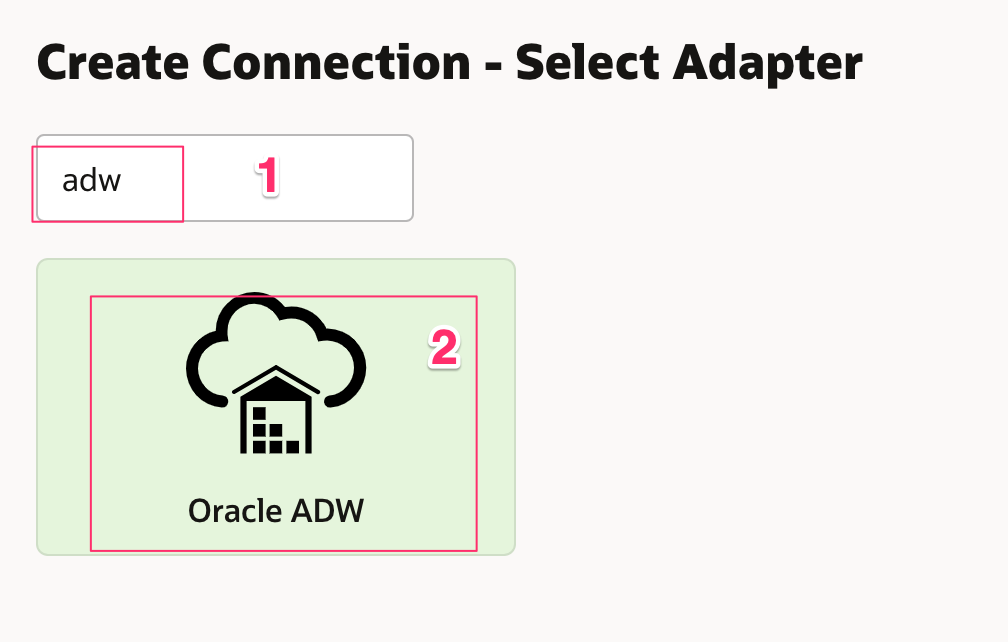
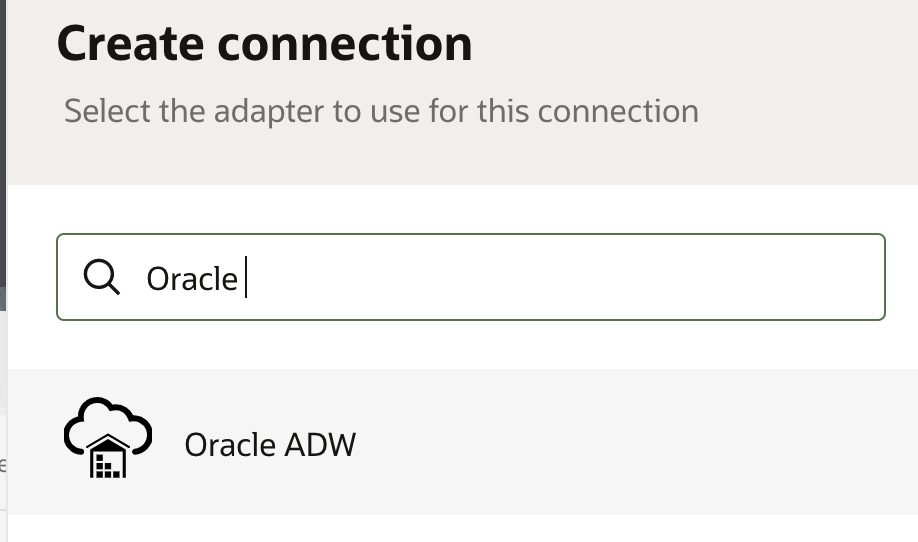
experiential lab
experiential lab

Changed region(s): [[0.0, 0.0, 0.976, 0.8856], [0.9455, 0.5609, 0.976, 0.5904]]

diff --git a/oic-gen3/experiential/erpcloud-business-event/create-connections/create-connections.md b/oic-gen3/experiential/erpcloud-business-event/create-connections/create-connections.md
@@ -8,7 +8,7 @@ Estimated Time: 10 minutes
 
 ### Objectives
 In this lab, you will:
-- Create an Oracle ERP Cloud Adapter Connection 
+- Create an Oracle ERP Cloud Adapter Connection
 - Create an Oracle Autonomous Data Warehouse connection
 
 ### Prerequisites
@@ -16,14 +16,14 @@ This lab assumes you have:
 - Completed the Lab Setup
 
 
-## Task 1: Create an Oracle ERP Cloud Adapter connection 
+## Task 1: Create an Oracle ERP Cloud Adapter connection
 Create a connection with the Oracle ERP Cloud Adapter.
 
 1. Show the left Navigation menu, and click **Integrations** > **Connections**.
 
 2. Click **Create**.
 
-3. In the *Create Connection - Select Adapter* dialog, select the **Oracle ERP Cloud** adapter to use for this connection. To find the adapter, enter `erp` in the search field. Click on the highlighted adapter and hit **Select**.
+3. In the *Create Connection* dialog, select the **Oracle ERP Cloud** adapter to use for this connection. To find the adapter, enter `erp` in the search field. Click on the highlighted adapter.
     ![Create ERP Cloud connection](images/create-erp-connection.png)
 
 4. In the *Create Connection* dialog, enter the following information:
@@ -46,21 +46,21 @@ Create a connection with the Oracle ERP Cloud Adapter.
     |Password | `<erp-password>`|
     |
 
-6. Click on **Test** and wait until you receive a 
+6. Click on **Test** and wait until you receive a
 confirmation box that the test was successful.
 
-    > **Note:** The first time you run the test, it could take up to 2 minutes for completion. 
+    > **Note:** The first time you run the test, it could take up to 2 minutes for completion.
 
 7. Click **Save** and wait for the confirmation box. Exit the connection canvas by clicking the back button on the top left side of the screen.
 
 
 
-## Task 2: Create an Oracle Autonomous Data Warehouse Connection 
+## Task 2: Create an Oracle Autonomous Data Warehouse Connection
 Create a connection with the Oracle Autonomous Data Warehouse Adapter.
 
 1. From the *Connections* window, click **Create**.
 
-2. In the *Create Connection - Select Adapter* dialog, select the **Oracle ADW** adapter to use for this connection. To find the adapter, enter `adw` in the search field. Click on the highlighted adapter and hit **Select**.
+2. In the *Create Connection* dialog, select the **Oracle ADW** adapter to use for this connection. To find the adapter, enter `oracle` in the search field. Click on the highlighted adapter.
     ![Create ADW connection](images/create-adw-connection.png)
 
 3. In the *Create Connection* dialog, enter the following information:
@@ -86,7 +86,7 @@ Create a connection with the Oracle Autonomous Data Warehouse Adapter.
     |
 
     ![Configure ADW connection](images/configure-adw-connection.png)
-    
+
 5. Click on **Test**, followed by **Save**. Exit the connection canvas by clicking the back button on the top left side of the screen.
 
 
@@ -95,4 +95,4 @@ You may now **proceed to the next lab**.
 
 ## Acknowledgements
 * **Author** - Ravi Chablani, Product Management - Oracle Integration
-* **Last Updated By/Date** - Ravi Chablani, February 2022
+* **Last Updated By/Date** - Subhani Italapuram, Sep 2022

diff --git a/oic-gen3/common/setup/setup.md b/oic-gen3/common/setup/setup.md
@@ -24,15 +24,19 @@ Configure File Server settings. This is required as you are using Embedded File 
 ![File Server Settings page](images/file-server-settings.png)
 **Note**: Ensure the *Authentication Type* is set to **Password or Key**.
 3. Under SFTP Server Status, monitor the server's status, and stop or restart as needed
-4. Select **Folders** from left Navigation pane.
+4. Select **Users** from left Navigation pane, search for your User Name and click on Configure.
+![Navigation to Users](images/enableuseronfileserver.png)
+5. Click on **Switch to enable** and click on **Save**.
+![Enable User](images/enableuseronfileserver1.png =50%x30%)
+6. Select **Folders** from left Navigation pane.
 ![Navigation to Folders](images/file-server-files1.png)
-5. Click on **home**, click on **users**, click on your username and from the top right click **Create** and create a Folder named **Output**.
-6. Click on **Permissions** on the **Output** Folder
+7. Click on **home**, click on **users**, click on your username and from the top right click **Create** and create a Folder named **Output**.
+8. Click on **Permissions** on the **Output** Folder
 ![Workshop Folder structure](images/fs-permissions.png)
 **Note**: You will be using the above Folder structure in the lab.
-7. Click **Add Permissions** and select your user. Click **Add**.
+9. Click **Add Permissions** and select your user. Click **Add**.
 ![Add user to Folder permissions](images/user-permissions-1.png)
-8. Select **All** and **Propagate to subfolders**. All of the permission checkboxes should be checked. Click **Save** and exit the Permissions page.
+10. Select **All** and **Propagate to subfolders**. All of the permission checkboxes should be checked. Click **Save** and exit the Permissions page.
 ![Folder permissions](images/user-permissions1-1.png)
 
 ## Task 2: Connect to File Server with FTP Client

diff --git a/oic-gen3/experiential/erpcloud-business-event/create-flow/create-flow.md b/oic-gen3/experiential/erpcloud-business-event/create-flow/create-flow.md
@@ -183,7 +183,7 @@ Manage business identifiers that enable you to track fields in messages during r
 1. Click on **Business Identifiers** which is available on the top right.
     ![Open Business Identifiers For Tracking](images/open-business-identifiers.png)
 
-2. From the *Source* section, expand **onEvent** > **getPurchaseOrderResponse** > **result** >  **2nd <sequence** > expand **Value**. Drag the **POHeaderId**, **OrderNumber** and **DocumentDescription** fields from ERP PO source to the *Drag a trigger field here* section:
+2. From the *Source* section, expand **onEvent** > **getPurchaseOrderResponse** > **result** >  **2nd <sequence>** > expand **Value**. Drag the **POHeaderId**, **OrderNumber** and **DocumentDescription** fields from ERP PO source to the *Drag a trigger field here* section:
 
     ![Assign Business Identifiers](images/assign-business-identifiers.png)
 
@@ -198,9 +198,7 @@ Manage business identifiers that enable you to track fields in messages during r
 
     ![Click to Activate Integration](images/click-activate-integration.png)
 
-2. On the *Activate Integration* dialog, select **Enable Tracing**, followed by **Include Payload** options.
-
-3. Click **Activate**.
+2. On the *Activate Integration* dialog, select **Audit** as tracing level and click **Activate**
 
     The activation will complete in a few seconds. If activation is successful, a status message is displayed in the banner at the top of the page, and the status of the integration changes to *Active*.
 
@@ -211,4 +209,4 @@ You may now **proceed to the next lab**.
 ## Acknowledgements
 * **Author** - Ravi Chablani, Product Management - Oracle Integration
 * **Author** - Subhani Italapuram, Product Management - Oracle Integration
-* **Last Updated By/Date** - Subhani Italapuram, July 2022
+* **Last Updated By/Date** - Subhani Italapuram, Sep 2022

diff --git a/oic-gen3/experiential/erpcloud-business-event/introduction/introduction.md b/oic-gen3/experiential/erpcloud-business-event/introduction/introduction.md
@@ -43,11 +43,11 @@ This lab assumes you have the following:
 You may now **proceed to the next lab**.
 
 ## Want to Learn More?
-* [Getting Started with Oracle Integration 3](https://docs.oracle.com/en/cloud/paas/integration-cloud)
-* [Using the Oracle ERP Cloud Adapter with OCI Application Integration](https://docs.oracle.com/en/cloud/paas/integration-cloud/erp-adapter)
+* [Getting Started with Oracle Integration 3](https://docs.oracle.com/en/cloud/paas/application-integration/index.html)
+* [Using the Oracle ERP Cloud Adapter with Oracle Integration](https://docs.oracle.com/en/cloud/paas/application-integration/erp-adapter/oracle-erp-cloud-adapter-capabilities.html)
 
 
 ## Acknowledgements
 * **Author** - Ravi Chablani, Product Management - Oracle Integration
 * **Author** - Subhani Italapuram, Product Management - Oracle Integration
-* **Last Updated By/Date** - Subhani Italapuram, July 2022
+* **Last Updated By/Date** - Subhani Italapuram, Sep 2022

diff --git a/oic-gen3/common/enable-file-server/enable-file-server.md b/oic-gen3/common/enable-file-server/enable-file-server.md
@@ -24,6 +24,8 @@ An administrator must enable File Server before an organization can start using 
 
 If your organization hasn't enabled File Server yet, and you select File Server from the navigation pane, the following message appears: *Start sharing files...*
 
+![File Server Not Enabled](images/fileservernotenabled.png =50%x50%)
+
 To enable File Server:
 
 1. On the Oracle Cloud Get Started page, select the region in the upper right where you created your Oracle Integration 3 instance. Open the navigation menu in the upper left and click **Developer Services**. Under **Application Integration**, click **Integration**.

diff --git a/oic-gen3/experiential/erpcloud-business-event/run-demo/run-demo.md b/oic-gen3/experiential/erpcloud-business-event/run-demo/run-demo.md
@@ -173,4 +173,4 @@ You have completed the final step of this workshop. Thank you!
 ## Acknowledgements
 * **Author** - Ravi Chablani, Product Management - Oracle Integration
 * **Author** - Subhani Italapuram, Product Management - Oracle Integration
-* **Last Updated By/Date** - Subhani Italapuram, Jul 2022
+* **Last Updated By/Date** - Subhani Italapuram, Sep 2022
